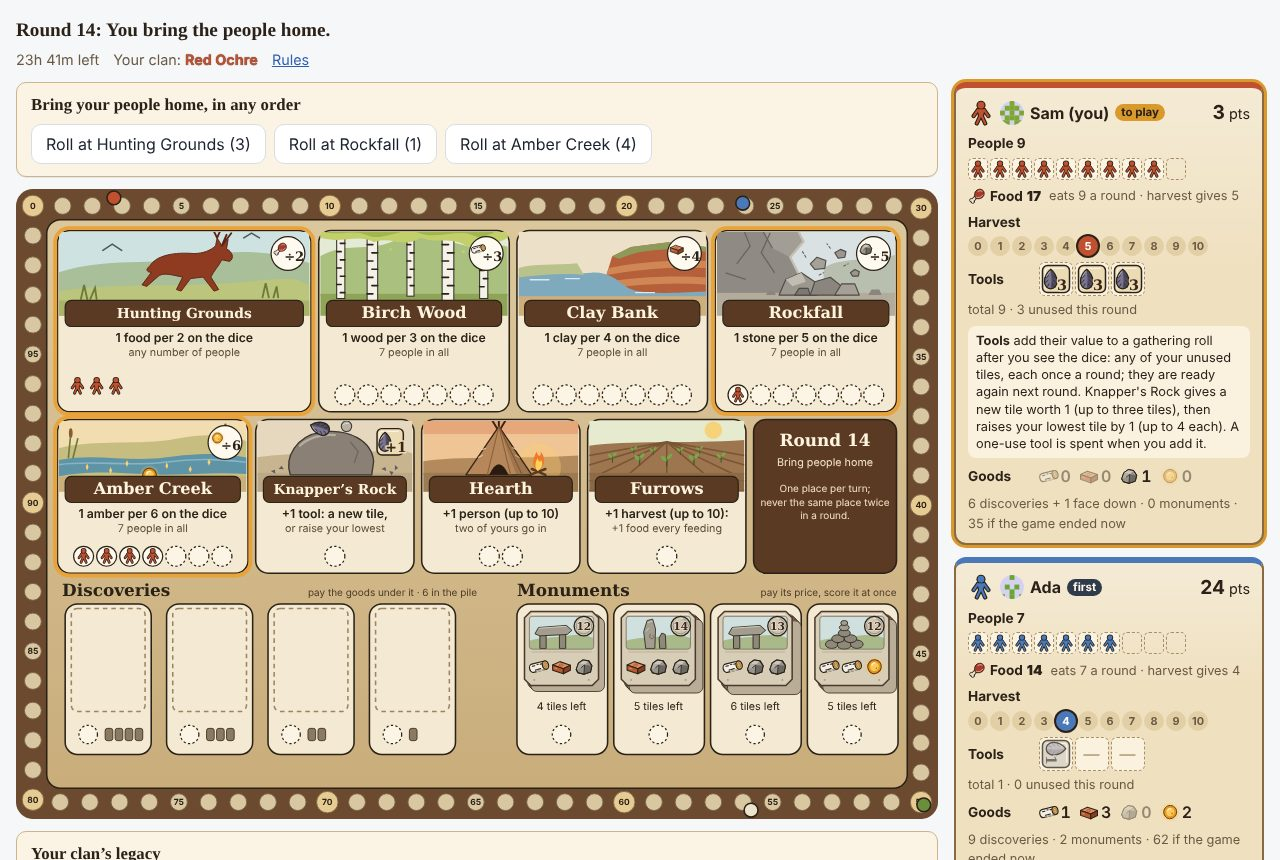
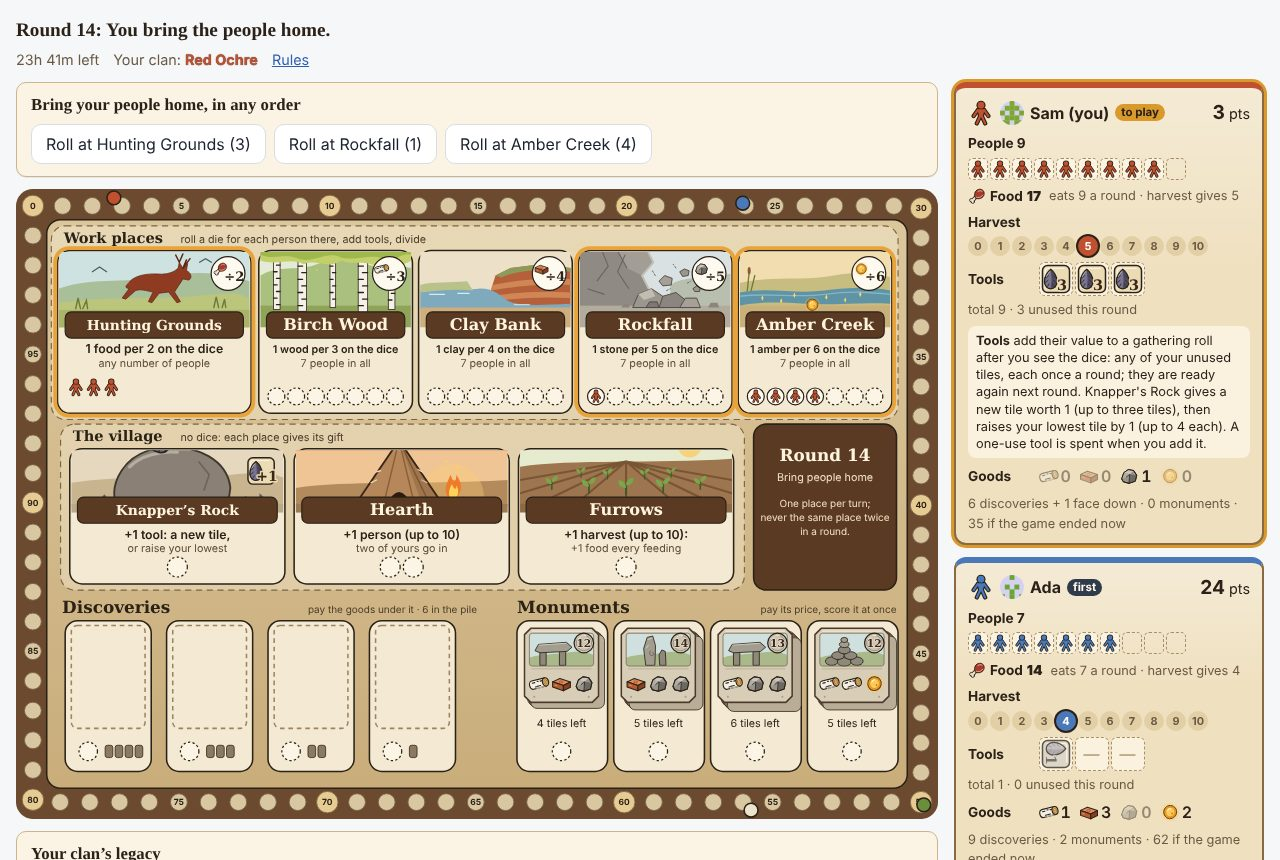
Sticks & Stones board: work places in one row, the village together (D089)
The hunt and the four grounds sit side by side, Amber Creek next to the
Rockfall, under "Work places"; Knapper's Rock, the Hearth and the Furrows are
grouped under "The village". Screens in play redone.

Claude-Session: https://claude.ai/code/session_012uzmEwy6RjuCpLoDDikV8D

Changed region(s): [[0.0312, 0.2419, 0.7188, 0.907], [0.0312, 0.8465, 0.375, 0.907]]

diff --git a/apps/web/src/games/sticks-and-stones/board.tsx b/apps/web/src/games/sticks-and-stones/board.tsx
@@ -51,68 +51,46 @@ interface Zone {
   readonly rings: number | null;
 }
 
+/** The work places, in one row: the hunt, then the four grounds from wood to amber. */
+const WORK_Y = 80;
+const WORK_H = 212;
+/** The village, together in the second row. */
+const VILLAGE_Y = 338;
+const VILLAGE_H = 176;
+const ground = (spot: Spot, x: number, good: number, name: string): Zone => ({
+  spot,
+  x,
+  y: WORK_Y,
+  w: 200,
+  h: WORK_H,
+  gives: [`1 ${name} per ${good + 3} on the dice`, `${GROUND_ROOM} people in all`],
+  good,
+  per: good + 3,
+  rings: GROUND_ROOM,
+});
+
 const ZONES: readonly Zone[] = [
   {
     spot: 'hunt',
     x: 54,
-    y: 54,
-    w: 330,
-    h: 236,
+    y: WORK_Y,
+    w: 252,
+    h: WORK_H,
     gives: ['1 food per 2 on the dice', 'any number of people'],
     good: -1,
     per: 2,
     rings: null,
   },
-  {
-    spot: 'wood',
-    x: 394,
-    y: 54,
-    w: 248,
-    h: 236,
-    gives: ['1 wood per 3 on the dice', `${GROUND_ROOM} people in all`],
-    good: 0,
-    per: 3,
-    rings: GROUND_ROOM,
-  },
-  {
-    spot: 'brick',
-    x: 652,
-    y: 54,
-    w: 248,
-    h: 236,
-    gives: ['1 clay per 4 on the dice', `${GROUND_ROOM} people in all`],
-    good: 1,
-    per: 4,
-    rings: GROUND_ROOM,
-  },
-  {
-    spot: 'stone',
-    x: 910,
-    y: 54,
-    w: 236,
-    h: 236,
-    gives: ['1 stone per 5 on the dice', `${GROUND_ROOM} people in all`],
-    good: 2,
-    per: 5,
-    rings: GROUND_ROOM,
-  },
-  {
-    spot: 'gold',
-    x: 54,
-    y: 300,
-    w: 248,
-    h: 200,
-    gives: ['1 amber per 6 on the dice', `${GROUND_ROOM} people in all`],
-    good: 3,
-    per: 6,
-    rings: GROUND_ROOM,
-  },
+  ground('wood', 316, 0, 'wood'),
+  ground('brick', 524, 1, 'clay'),
+  ground('stone', 732, 2, 'stone'),
+  ground('gold', 940, 3, 'amber'),
   {
     spot: 'tools',
-    x: 312,
-    y: 300,
-    w: 206,
-    h: 200,
+    x: 70,
+    y: VILLAGE_Y,
+    w: 280,
+    h: VILLAGE_H,
     gives: ['+1 tool: a new tile,', 'or raise your lowest'],
     good: null,
     per: null,
@@ -120,10 +98,10 @@ const ZONES: readonly Zone[] = [
   },
   {
     spot: 'hut',
-    x: 528,
-    y: 300,
-    w: 206,
-    h: 200,
+    x: 362,
+    y: VILLAGE_Y,
+    w: 280,
+    h: VILLAGE_H,
     gives: ['+1 person (up to 10)', 'two of yours go in'],
     good: null,
     per: null,
@@ -131,10 +109,10 @@ const ZONES: readonly Zone[] = [
   },
   {
     spot: 'field',
-    x: 744,
-    y: 300,
-    w: 206,
-    h: 200,
+    x: 654,
+    y: VILLAGE_Y,
+    w: 280,
+    h: VILLAGE_H,
     gives: ['+1 harvest (up to 10):', '+1 food every feeding'],
     good: null,
     per: null,
@@ -252,14 +230,14 @@ function Location(props: {
   const rings: ComponentChildren[] = [];
   if (z.rings === null) {
     // The hunting grounds: any number, drawn as small figures in rows.
-    const per = 12;
+    const per = 10;
     people.forEach((seat, i) => {
       const row = Math.floor(i / per);
       const col = i % per;
       rings.push(
         <Place
           key={i}
-          x={z.x + 14 + col * 25}
+          x={z.x + 12 + col * 23}
           y={z.y + z.h - 46 + row * 24 - Math.floor(people.length / per) * 12}
           size={24}
         >
@@ -282,10 +260,11 @@ function Location(props: {
         </text>,
       );
   } else {
-    const gap = Math.min(30, (z.w - 30) / z.rings);
+    const gap = Math.min(30, (z.w - 20) / z.rings);
+    const r = gap < 27 ? Math.floor(gap / 2) - 1 : 13;
     const start = z.x + z.w / 2 - (gap * (z.rings - 1)) / 2;
     for (let i = 0; i < z.rings; i++)
-      rings.push(<Ring key={i} x={start + i * gap} y={ringY} seat={people[i] ?? null} />);
+      rings.push(<Ring key={i} x={start + i * gap} y={ringY} seat={people[i] ?? null} r={r} />);
   }
   return (
     <Area
@@ -360,7 +339,7 @@ function Location(props: {
         y={z.y + sceneH + 36}
         text-anchor="middle"
         font-family={SANS}
-        font-size="16"
+        font-size={z.w < 230 ? 14 : 16}
         font-weight="600"
         fill={INK}
       >
@@ -480,7 +459,7 @@ export function Board(props: BoardProps) {
   const row: ComponentChildren[] = [];
   const cardW = 96;
   const rowX = 54;
-  const rowY = 506;
+  const rowY = 528;
   for (const slot of [3, 2, 1, 0]) {
     const i = 3 - slot;
     const x = rowX + 18 + i * 132;
@@ -620,6 +599,41 @@ export function Board(props: BoardProps) {
         stroke-width="2"
       />
       <ScoreTrack s={s} />
+      {/* The two groups of places: the work places in a row, the village together below. */}
+      <rect
+        x="46"
+        y="48"
+        width="1102"
+        height="252"
+        rx="18"
+        fill="rgb(255 248 230 / 35%)"
+        stroke="#7a6446"
+        stroke-width="1.5"
+        stroke-dasharray="8 6"
+      />
+      <text x="62" y="70" font-family={SERIF} font-weight="700" font-size="19" fill={INK}>
+        Work places
+      </text>
+      <text x="214" y="70" font-family={SANS} font-size="14" fill="#4a3a28">
+        roll a die for each person there, add tools, divide
+      </text>
+      <rect
+        x="58"
+        y="306"
+        width="890"
+        height="216"
+        rx="18"
+        fill="rgb(255 248 230 / 35%)"
+        stroke="#7a6446"
+        stroke-width="1.5"
+        stroke-dasharray="8 6"
+      />
+      <text x="74" y="328" font-family={SERIF} font-weight="700" font-size="19" fill={INK}>
+        The village
+      </text>
+      <text x="214" y="328" font-family={SANS} font-size="14" fill="#4a3a28">
+        no dice: each place gives its gift
+      </text>
       {ZONES.map((z) => (
         <Location
           key={z.spot}
@@ -632,10 +646,10 @@ export function Board(props: BoardProps) {
       ))}
       {/* The village note and the round. */}
       <g>
-        <rect x="960" y="300" width="186" height="200" rx="16" fill="#5b3a24" stroke={INK} stroke-width="2" />
+        <rect x="960" y="306" width="186" height="216" rx="16" fill="#5b3a24" stroke={INK} stroke-width="2" />
         <text
           x="1053"
-          y="334"
+          y="354"
           text-anchor="middle"
           font-family={SERIF}
           font-weight="700"
@@ -644,7 +658,7 @@ export function Board(props: BoardProps) {
         >
           Round {s.round}
         </text>
-        <text x="1053" y="360" text-anchor="middle" font-family={SANS} font-size="14" fill="#f2e2c0">
+        <text x="1053" y="380" text-anchor="middle" font-family={SANS} font-size="14" fill="#f2e2c0">
           {s.stage === 'place'
             ? 'Send people out'
             : s.stage === 'feed'
@@ -653,20 +667,20 @@ export function Board(props: BoardProps) {
                 ? 'Game over'
                 : 'Bring people home'}
         </text>
-        <text x="1053" y="394" text-anchor="middle" font-family={SANS} font-size="13" fill="#f2e2c0">
+        <text x="1053" y="414" text-anchor="middle" font-family={SANS} font-size="13" fill="#f2e2c0">
           One place per turn;
         </text>
-        <text x="1053" y="412" text-anchor="middle" font-family={SANS} font-size="13" fill="#f2e2c0">
+        <text x="1053" y="432" text-anchor="middle" font-family={SANS} font-size="13" fill="#f2e2c0">
           never the same place twice
         </text>
-        <text x="1053" y="430" text-anchor="middle" font-family={SANS} font-size="13" fill="#f2e2c0">
+        <text x="1053" y="450" text-anchor="middle" font-family={SANS} font-size="13" fill="#f2e2c0">
           in a round.
         </text>
         {village && (
           <>
             <text
               x="1053"
-              y="458"
+              y="478"
               text-anchor="middle"
               font-family={SANS}
               font-size="13"
@@ -677,7 +691,7 @@ export function Board(props: BoardProps) {
             </text>
             <text
               x="1053"
-              y="476"
+              y="496"
               text-anchor="middle"
               font-family={SANS}
               font-size="13"
@@ -688,7 +702,7 @@ export function Board(props: BoardProps) {
             </text>
             <text
               x="1053"
-              y="494"
+              y="514"
               text-anchor="middle"
               font-family={SANS}
               font-size="13"

diff --git a/docs/DECISIONS.md b/docs/DECISIONS.md
@@ -1361,7 +1361,7 @@ The owner asked: *"Design a trademark & copyright safe version of Stone Age with
   - *"You cannot decline placing your workers somewhere for the turn. They may be placed anywhere that is legal, but they must be placed."* The engine already required it; RULES.md says so. The audit of the full rulebooks settled the old OPEN item on declining: each clan "uses all" its placed people, so every village spot and every roll is resolved, and only a card or a monument may be passed up (the rulebooks' "cannot or does not want to pay"), its person coming home.
   - The two-goods card, in the rulebook's words: face up beside the clan's board, once, immediately or later (the German rulebook: at any time during the game), two goods of the owner's choice. The owner now uses it from its mat at any of its own decisions (placing, resolving, adding tools, taking a gift die, feeding). **Fixed:** a card still unused at the end used to score nothing (a clan that bought it last and was fed automatically had no decision left); it now counts as its two goods, one point each, as cashing it any time before the count would.
   - The full ruleset was re-read, Hans im Glück's current German rulebook with its overview of every card and building included (https://www.hans-im-glueck.de/wp-content/uploads/2023/06/Stone-Age_Regel_D.pdf; the English PDF Hans im Glück hosts is byte-identical to Z-Man's ZM7260, and Rio Grande's own link is dead). All 36 cards and 28 tiles match `data.ts`. RULES.md now gives every card top's full meaning, cites the German rulebook for the lowest-tile-first tool order, marks "a full display with an empty pile plays on" as a reading, and says the extra card is looked at and kept face down. The rules page lists every top and shows all 36 discoveries and 28 monuments.
-  - *"The board doesn't visually identify where you can place your workers like the original one does."* The screen is now one illustrated board (`board.tsx`): every place drawn as an area with its picture, name, what it gives ("1 wood per 3 on the dice", "+1 harvest: +1 food every feeding"), its room and a ring per person in clan colours; the discovery row with each place's price under it; the monument stacks with the tiles left; the score track round the edge with every clan's marker. The places a clan can use now glow and are buttons. Each clan has a mat (`mats.tsx`): ten people places, food and what feeding will take, the harvest track 0–10, the three tool places with each tile's value (turned when used), one-use tools, goods, the two-goods card face up while unused, and the score; the viewer's mat explains tools.
+  - *"The board doesn't visually identify where you can place your workers like the original one does."* The screen is now one illustrated board (`board.tsx`): every place drawn as an area with its picture, name, what it gives ("1 wood per 3 on the dice", "+1 harvest: +1 food every feeding"), its room and a ring per person in clan colours; the discovery row with each place's price under it; the monument stacks with the tiles left; the score track round the edge with every clan's marker. The places a clan can use now glow and are buttons. The work places sit together in one row (the hunt, then wood, clay, stone and amber, so Amber Creek is beside the Rockfall), and the village (Knapper's Rock, the Hearth, the Furrows) together below, each group in its own frame (owner, the same day). Each clan has a mat (`mats.tsx`): ten people places, food and what feeding will take, the harvest track 0–10, the three tool places with each tile's value (turned when used), one-use tools, goods, the two-goods card face up while unused, and the score; the viewer's mat explains tools.
 - **Online.** One 64-card deck `camp` in two partitions (36 discoveries, then 28 monuments as four stacks of seven; a game uses the first stack per player and never turns the others up), with prompt shares (D075): the display, each refill and each new stack top are public reveals. The extra card is dealt to its buyer alone and turned up by a public scoring reveal before the final count (`handsReveal`, as Quill & Quarry). Bought discoveries are face down in the box but were face up in the display and are in the public record, so the screen shows them. Dice from the beacon (D058): resolving a gathering spot, or buying a card that rolls, opens the roll; every seat's app adds a share. Standings are the final count of what is public. Resign is off pending a D052 review.
 - **Platform fix (client).** `pnpm sim` found a stall: without reshuffle epochs, the session never asked a card's holder for its own share at a scoring reveal, so the reveal never completed and the holder was timed out at the end of every game with a face-down card. The `share` duty now includes a pending scoring reveal's positions for every seat (`scoringSharesDue`), as an epoch game's reveal already did; PROTOCOL §6.2a says so. Test: `packages/client/test/scoring-reveal.test.ts` fails without the fix (one timeout claim) and passes with it. The whole client suite passes.
 - **Catalog.** `bggId` null; "Compare to Stone Age", stored once in `src/compare.ts`, links to BoardGameGeek 34635. Strategy; worker placement, dice rolling, set collection; 2–4 (best 4); 60–90 minutes; weight 2.5; luck 2; hidden information; age 10. **`worker-placement` joins the mechanism vocabulary** (game-kit `MECHANISMS`), the game's defining mechanism, which no listed term covered.
